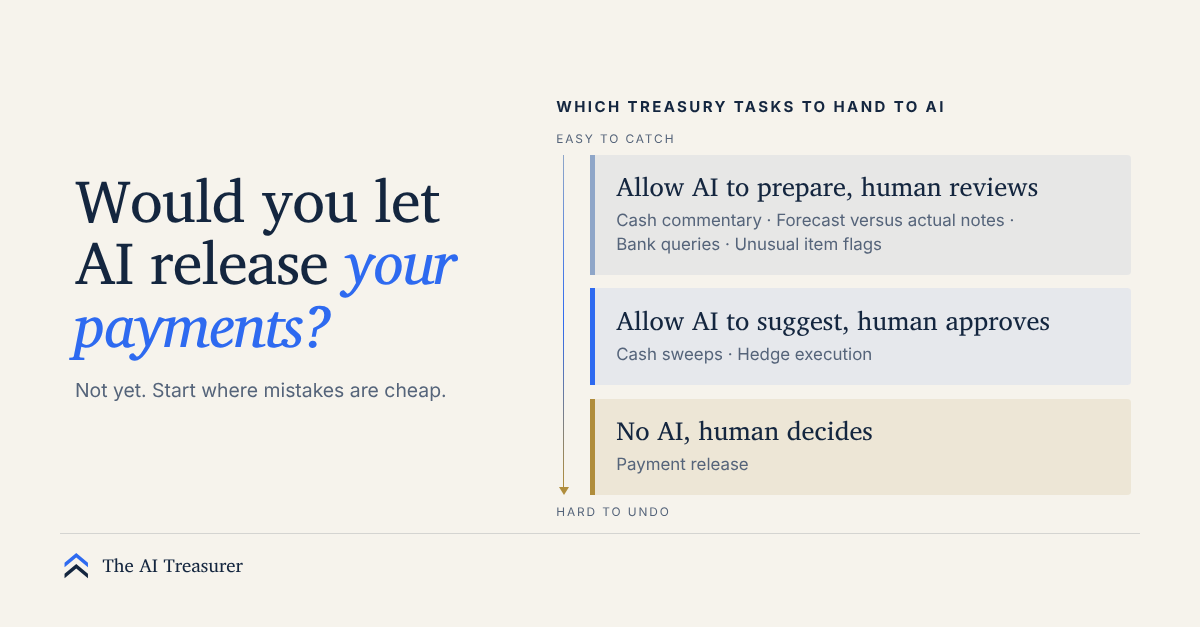
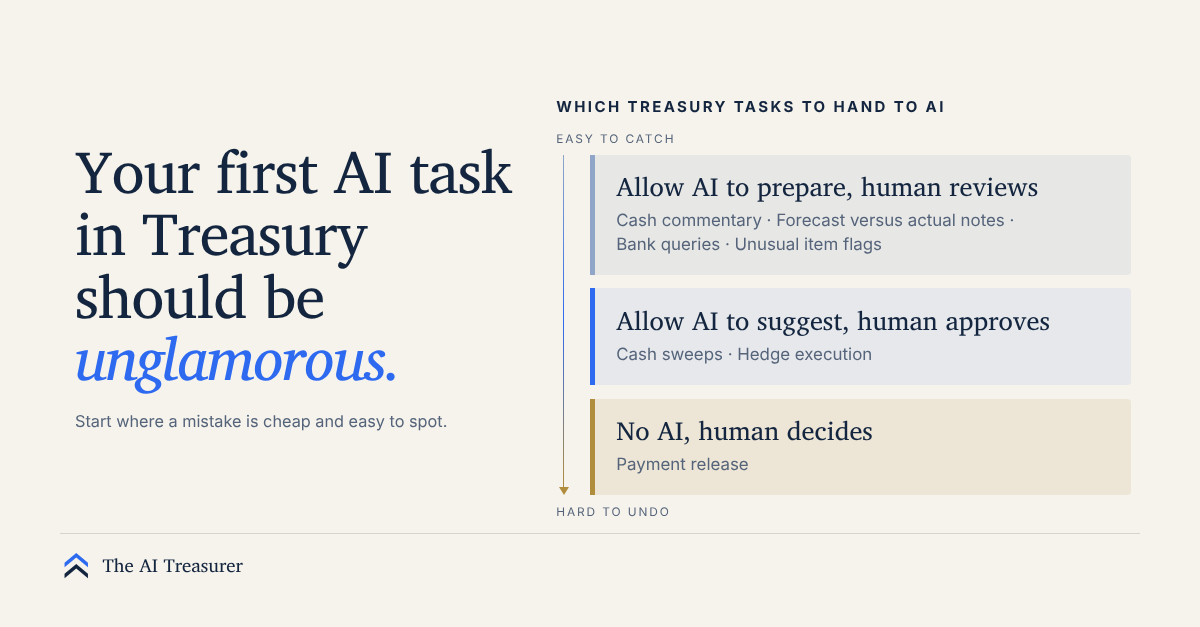
Article consistency: task names, new preview image, Try this, controls line
Claude-Session: https://claude.ai/code/session_01JedePw4pbBaJB5BPxPMryK

Changed region(s): [[0.0617, 0.2424, 0.4317, 0.6364], [0.0617, 0.6667, 0.37, 0.697]]

diff --git a/articles/start-where-mistakes-are-cheap/index.html b/articles/start-where-mistakes-are-cheap/index.html
@@ -171,10 +171,10 @@
 
   <h3 class="t1">Allow AI to prepare, human reviews</h3>
   <ul class="tasks t1">
-    <li>Cash position commentary</li>
+    <li>Cash commentary</li>
     <li>Forecast versus actual notes</li>
-    <li>Queries to banks</li>
-    <li>Flags on unusual items for review</li>
+    <li>Bank queries</li>
+    <li>Unusual item flags</li>
   </ul>
   <p><em>Why it&rsquo;s safe:</em> a person reads the output before anything is sent or posted, and the source data is close at hand. If AI gets it wrong, you lose only a few minutes.</p>
 
@@ -192,13 +192,13 @@
   </ul>
   <p><em>Before automation comes near it:</em> agree limits, approvals and an escalation path. Make sure you can quickly remove the AI&rsquo;s access to your banking and payment systems, return to the manual process, and test that fallback.</p>
 
-  <p class="key">The teams that do this well won&rsquo;t be the fastest to adopt AI. They&rsquo;ll be the ones who can show their auditor exactly what the AI is allowed to do.</p>
+  <p class="key">Speed is not the goal. Being able to show your auditor exactly what the AI is allowed to do is.</p>
 
   <h2>When to give AI more authority</h2>
   <p>Before a pilot starts, write down what results would justify giving AI more authority. Useful measures are how often reviewers change the output, how many errors are found late, and how long exceptions stay open. Set the level each must reach. If the numbers fall short, do not widen the AI&rsquo;s role, and be ready to take authority back.</p>
 
   <div class="box">
-    <div class="kicker">Try this week</div>
+    <div class="kicker">Try this</div>
     <p>List every task where AI is used or proposed in your Treasury. Next to each, write what a wrong answer would cost and who would catch it. The list will tell you where to start.</p>
   </div>
 
